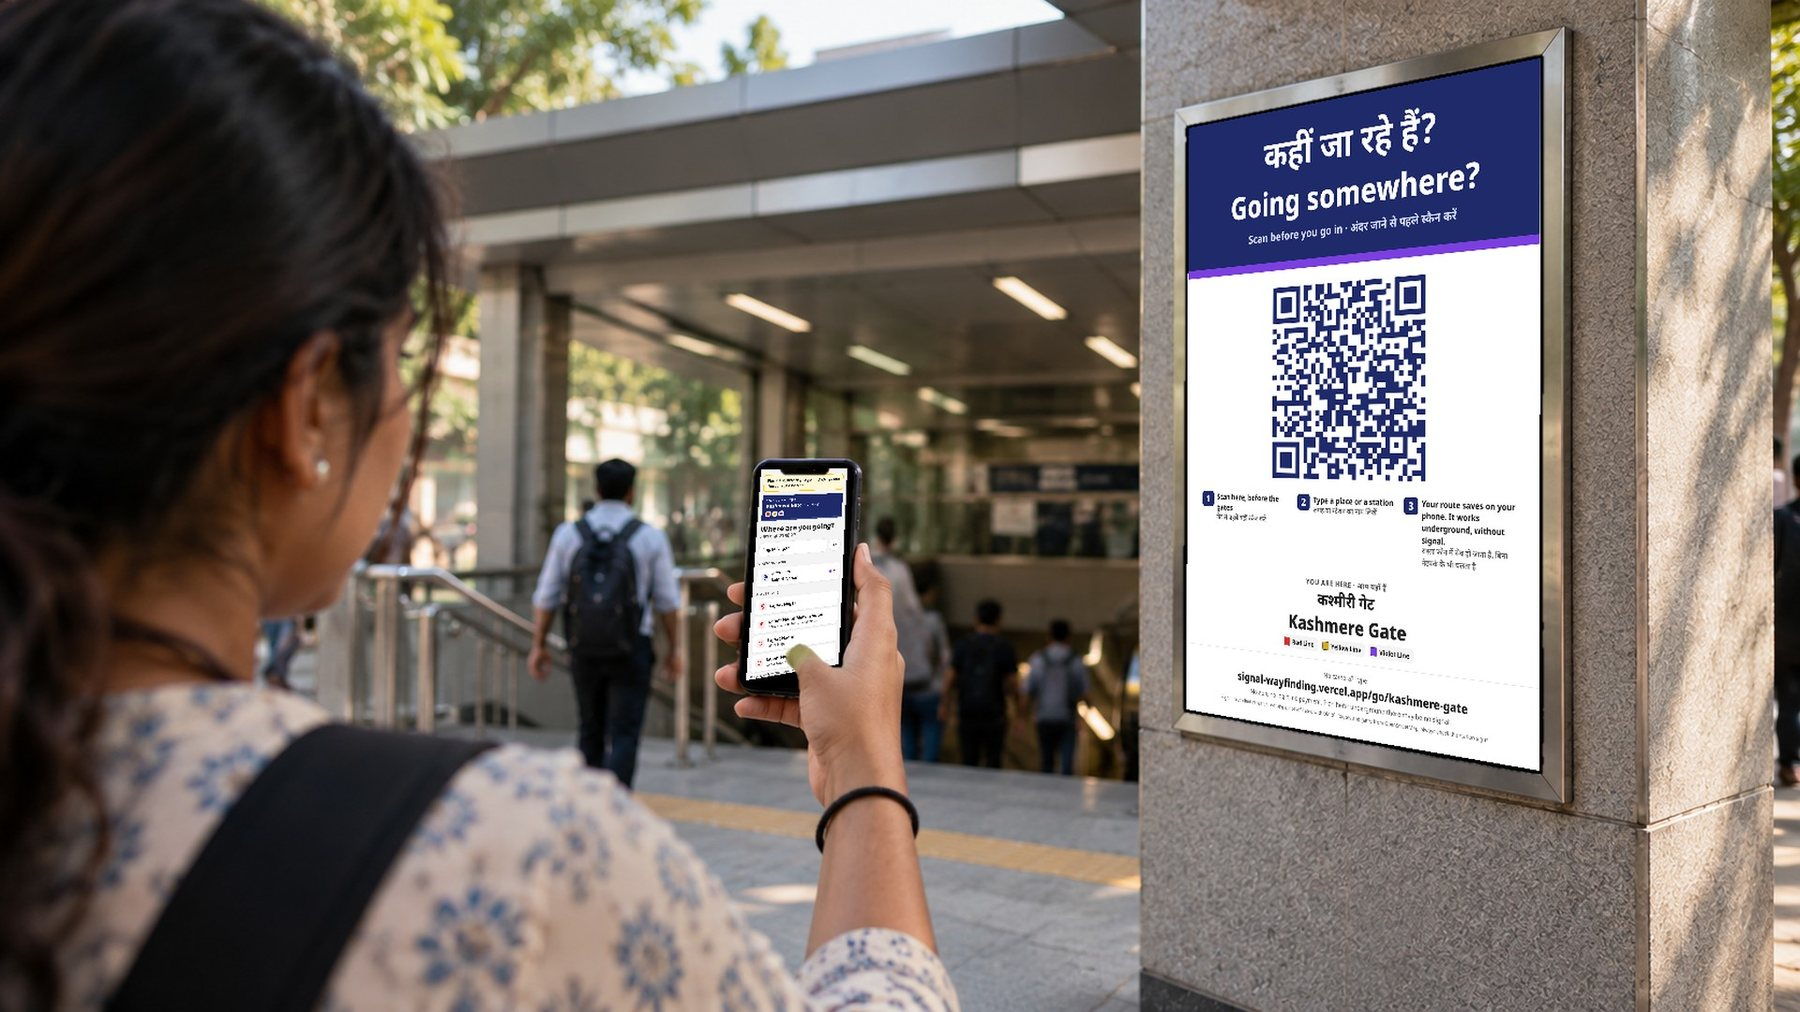
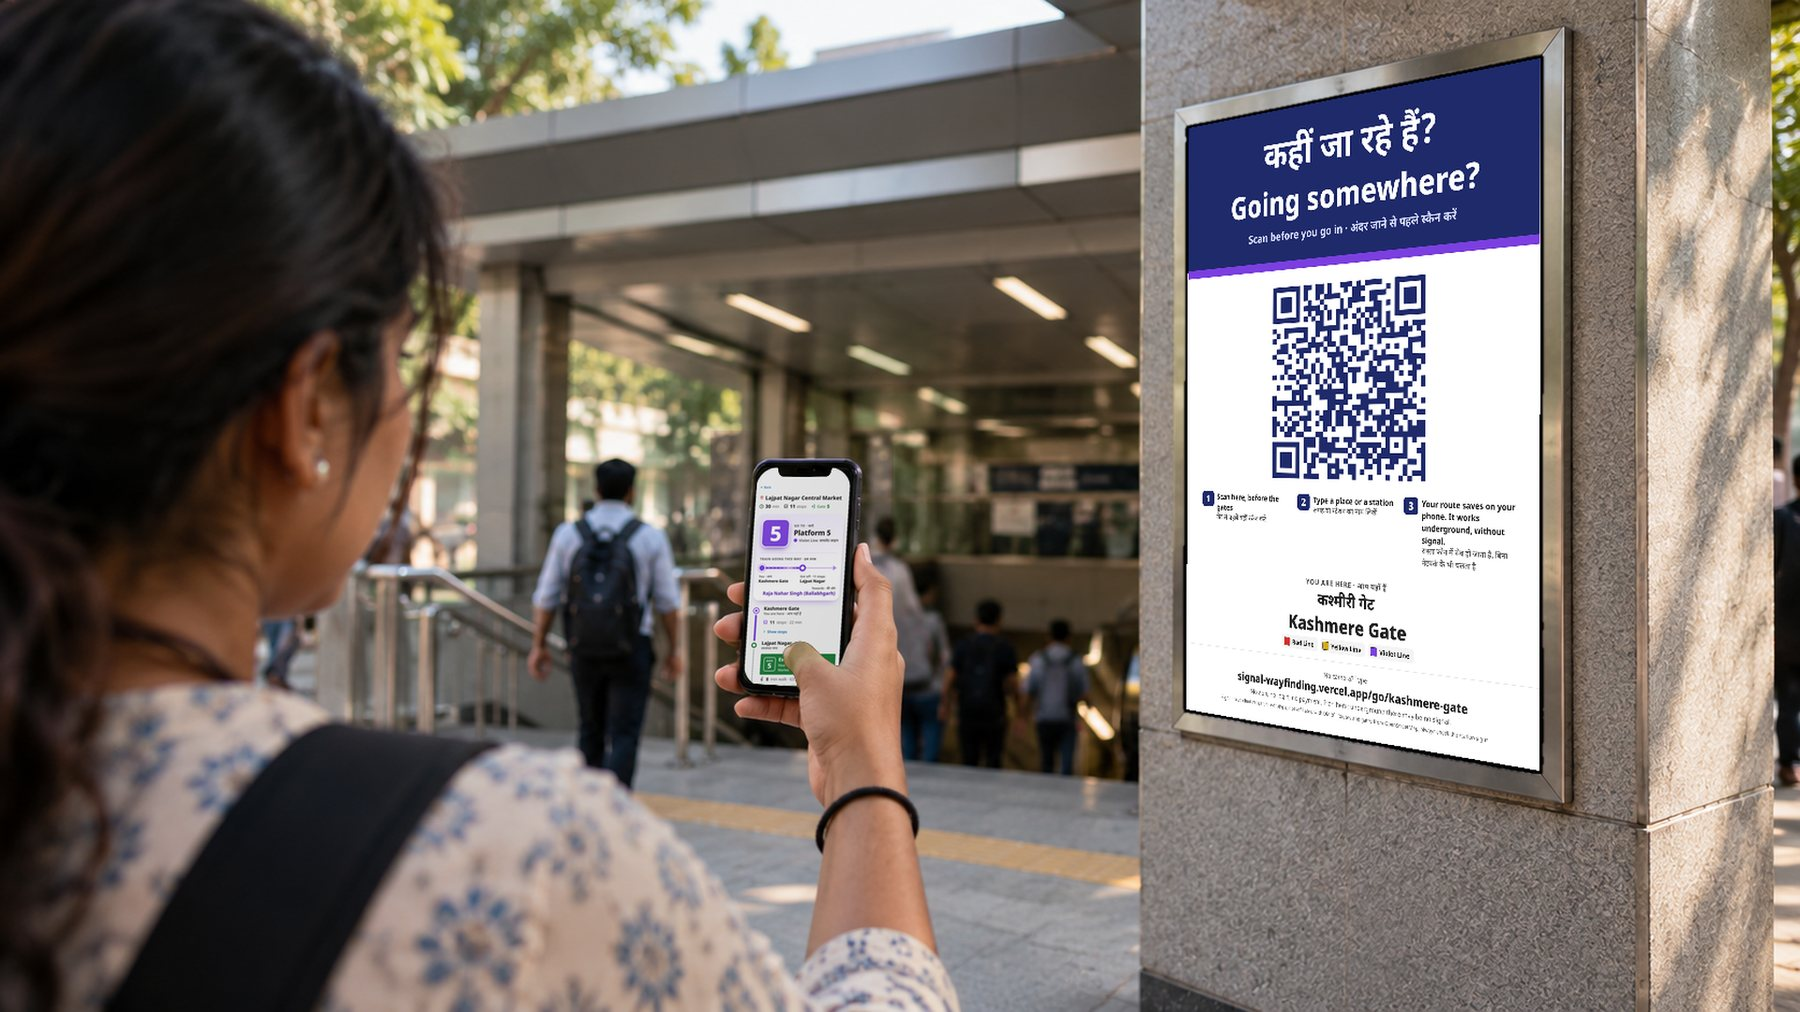
Delhi Metro case study: clean up the board-scanning mockup
The phone now shows the route screen (Platform 5 and the train's direction)
instead of the search list, which was noise at that size. Screen corners are
measured, the screenshot is shrunk before the warp, the thumb stays in front
without green spill, and the notch no longer covers the back link.

Changed region(s): [[0.4044, 0.4595, 0.4978, 0.6739]]

diff --git a/app/signal/page.js b/app/signal/page.js
@@ -192,7 +192,7 @@ export default function Signal() {
             <figcaption className="text-faint mt-2" style={{ fontSize: '0.85rem', lineHeight: 1.45 }}>The ticket prints your platform. Same printer, black only.</figcaption>
           </figure>
           <figure>
-            <img src={`${W}/scan.jpg`} alt="Concept render: a rider scans the Lost? board at a station entrance; her phone shows where to go" loading="lazy" className="block w-full rounded-xl" style={{ border: '1px solid var(--rule)' }} />
+            <img src={`${W}/scan.jpg`} alt="Concept render: a rider scans the Lost? board at a station entrance; her phone shows the route: Platform 5, and which way the train goes" loading="lazy" className="block w-full rounded-xl" style={{ border: '1px solid var(--rule)' }} />
             <figcaption className="text-faint mt-2" style={{ fontSize: '0.85rem', lineHeight: 1.45 }}>The Lost? board, at the entrance where there’s signal. Scan it, plan the trip, and the route stays on the phone underground. Concept render.</figcaption>
           </figure>
         </div>
